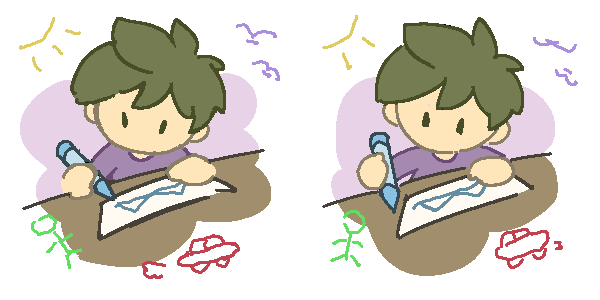
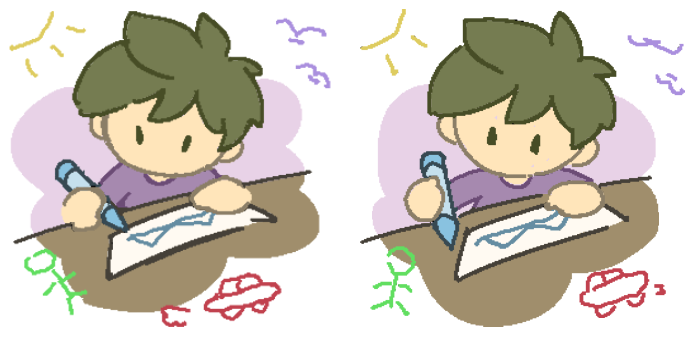
chore: increase event asset size

diff --git a/lib/components/event.dart b/lib/components/event.dart
@@ -11,7 +11,7 @@ class ActivityEvent extends SpriteAnimationComponent with HasGameRef<TalaCare> {
   @override
   FutureOr<void> onLoad() {
     var data = SpriteAnimationData.sequenced(
-      textureSize: Vector2.all(300),
+      textureSize: Vector2.all(350),
       amount: 2,
       stepTime: 0.5
     );
